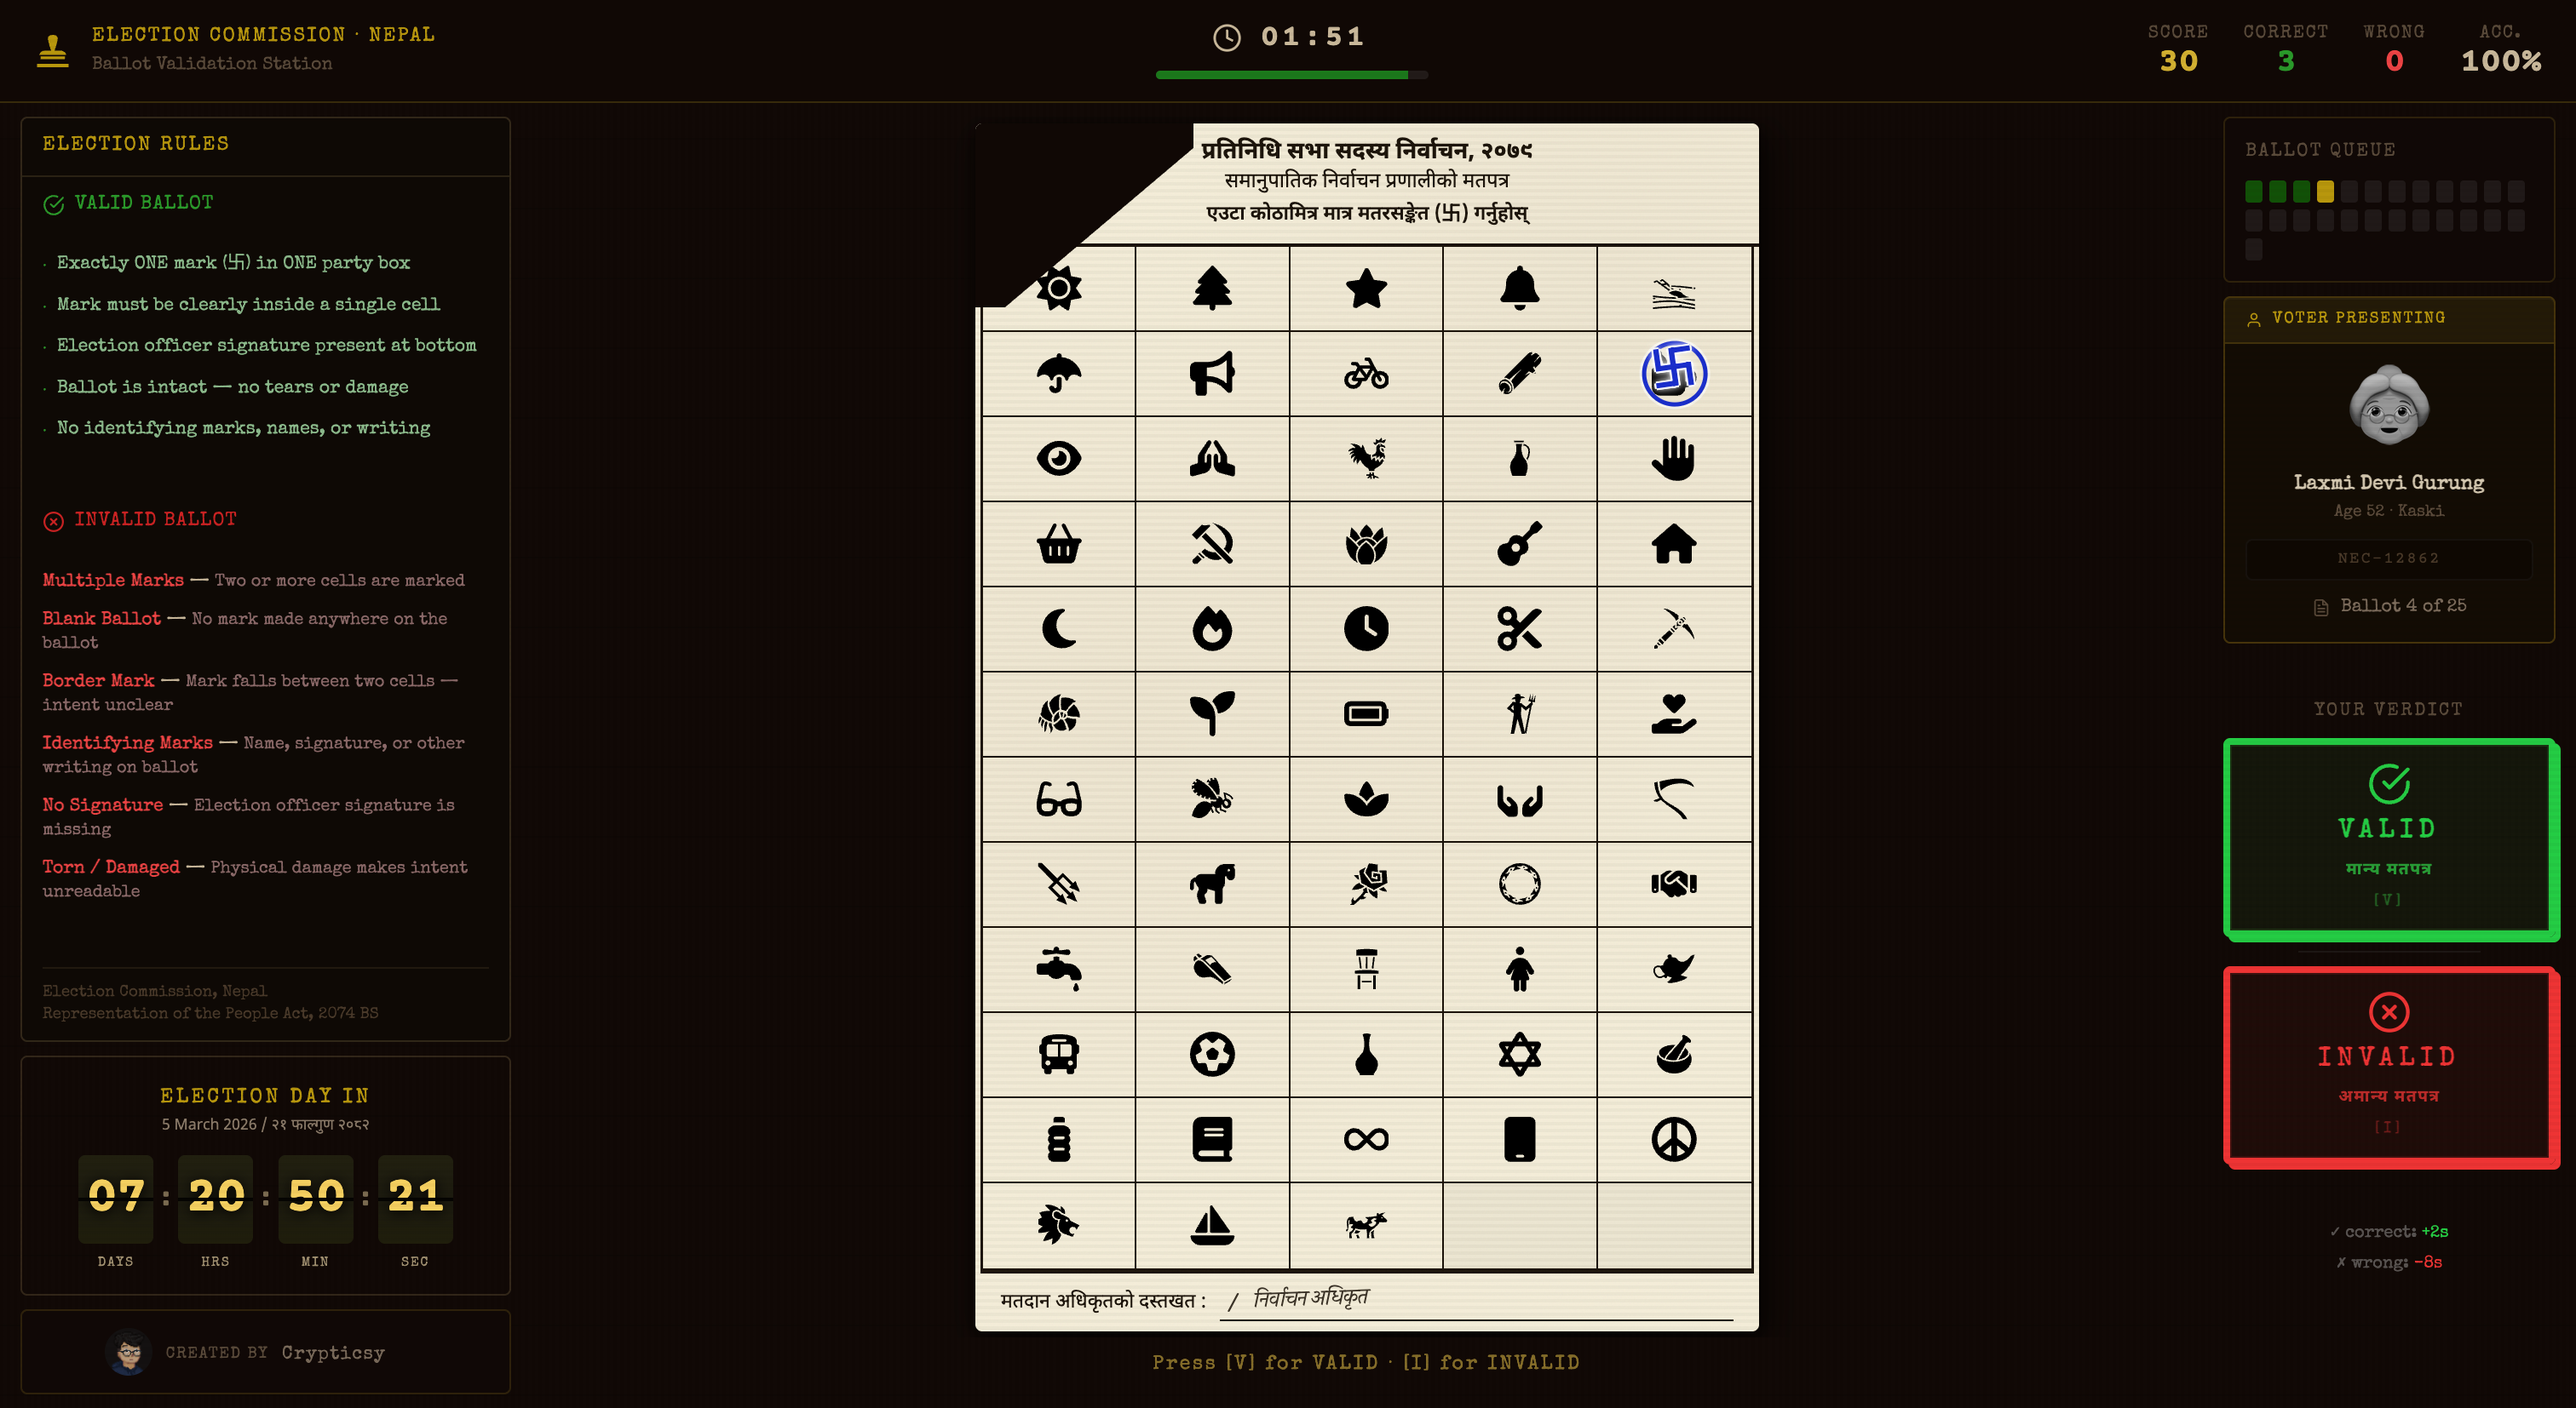
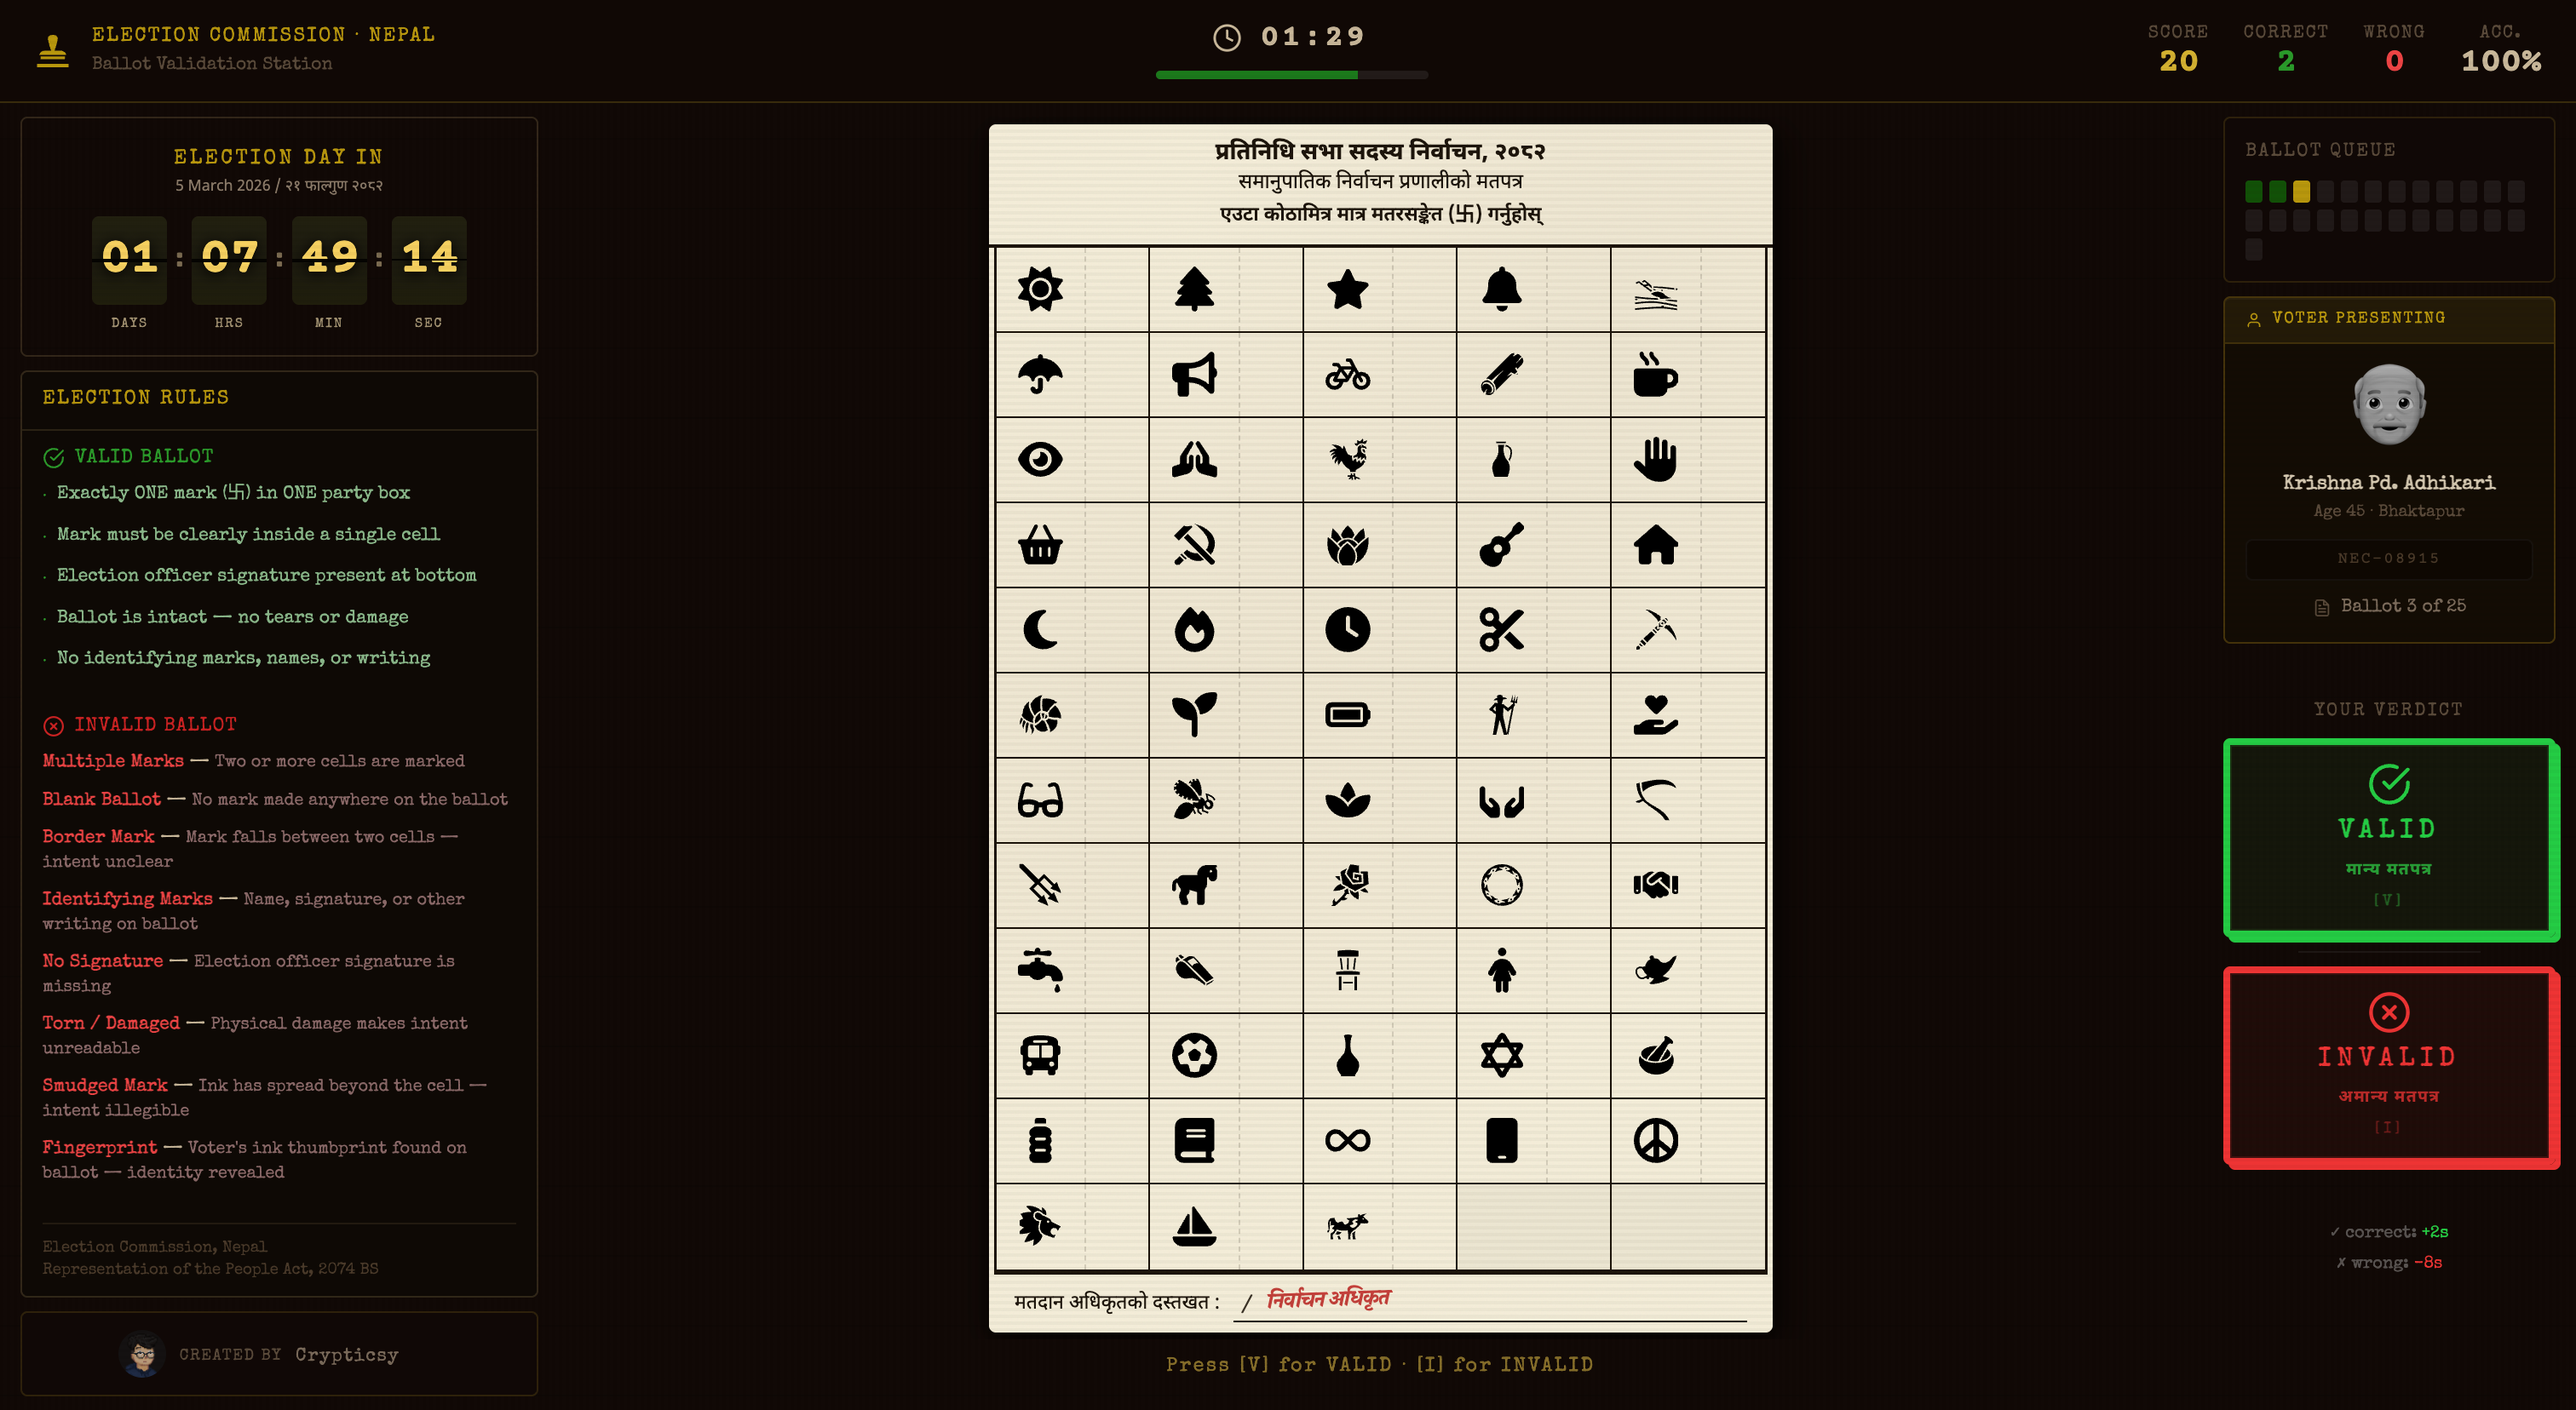
♻  Added ballot box

diff --git a/src/components/BallotDisplay.tsx b/src/components/BallotDisplay.tsx
@@ -27,13 +27,14 @@ export default function BallotDisplay({ ballot, compact = false, containerHeight
     cellH = CELL_H;
   }
 
-  const markMap = new Map<string, { isBorder?: boolean; borderDir?: string; sloppy?: boolean; isSmudged?: boolean }>();
+  const markMap = new Map<string, { isBorder?: boolean; borderDir?: string; sloppy?: boolean; isSmudged?: boolean; isOnSymbol?: boolean }>();
   for (const mark of ballot.marks) {
     markMap.set(`${mark.row}-${mark.col}`, {
       isBorder: mark.isBorder,
       borderDir: mark.borderDir,
       sloppy: ballot.sloppyMark,
       isSmudged: mark.isSmudged,
+      isOnSymbol: mark.isOnSymbol,
     });
   }
 
@@ -128,13 +129,23 @@ export default function BallotDisplay({ ballot, compact = false, containerHeight
                   borderRight: col < COLS - 1 ? '1px solid #1a1208' : 'none',
                   borderBottom: row < ROWS - 1 ? '1px solid #1a1208' : 'none',
                   display: 'flex',
-                  alignItems: 'center',
-                  justifyContent: 'center',
+                  alignItems: 'stretch',
                   overflow: mark?.isBorder ? 'visible' : 'hidden',
                 }}
               >
-                <span className="party-symbol"><PartyIcon /></span>
-                {mark && renderMark(mark.sloppy, mark.borderDir, mark.isBorder, mark.isSmudged)}
+                {/* Border marks are positioned absolute relative to the cell */}
+                {mark?.isBorder && renderMark(mark.sloppy, mark.borderDir, mark.isBorder, mark.isSmudged)}
+
+                {/* Symbol zone — left 58% */}
+                <div style={{ width: '58%', position: 'relative', display: 'flex', justifyContent: 'center', alignItems: 'center' }}>
+                  <span className="party-symbol"><PartyIcon /></span>
+                  {mark && !mark.isBorder && mark.isOnSymbol && renderMark(mark.sloppy, undefined, false, mark.isSmudged)}
+                </div>
+
+                {/* Mark zone — right 42%, subtle divider */}
+                <div style={{ width: '42%', position: 'relative', display: 'flex', justifyContent: 'center', alignItems: 'center', borderLeft: '1px dashed rgba(26,18,8,0.15)' }}>
+                  {mark && !mark.isBorder && !mark.isOnSymbol && renderMark(mark.sloppy, undefined, false, mark.isSmudged)}
+                </div>
               </div>
             );
           })

diff --git a/src/data/ballotGenerator.ts b/src/data/ballotGenerator.ts
@@ -169,6 +169,20 @@ function generateFingerprintBallot(): BallotData {
   };
 }
 
+function generateMarkOnSymbolBallot(): BallotData {
+  const mark = randomCell();
+  return {
+    id: ++ballotCounter,
+    isValid: false,
+    marks: [{ ...mark, markStyle: 'check', isOnSymbol: true }],
+    hasSignature: true,
+    hasTear: false,
+    invalidReason: 'mark_on_symbol',
+    invalidReasonDisplay:
+      'MARK IS PLACED ON THE PARTY SYMBOL — The mark must be made in the designated box, not over the symbol.',
+  };
+}
+
 function generateTornBallot(): BallotData {
   const mark = randomCell();
   const tearPositions = ['top-right', 'bottom-right', 'top-left'] as const;
@@ -199,6 +213,7 @@ const INVALID_GENERATORS: Generator[] = [
   generateTornBallot,
   generateSmudgedMarkBallot,
   generateFingerprintBallot,
+  generateMarkOnSymbolBallot,
 ];
 
 export function generateBallot(): BallotData {
@@ -225,6 +240,7 @@ export function generateBallotQueue(count: number): BallotData[] {
     generateTornBallot,
     generateSmudgedMarkBallot,
     generateFingerprintBallot,
+    generateMarkOnSymbolBallot,
   ];
   for (const gen of guaranteed) {
     ballots.push(gen());

diff --git a/src/index.css b/src/index.css
@@ -231,6 +231,7 @@
     right: 0;
     width: 110px;
     height: 110px;
+    clip-path: polygon(100% 100%, 0 100%, 100% 0);
     z-index: 30;
   }
 
@@ -242,7 +243,7 @@
     width: 120px;
     height: 120px;
     background: #0f0805;
-    clip-path: polygon(100% 100%, 115% -15%, 100% -15%);
+    clip-path: polygon(100% 100%, -15% 100%, 100% -15%);
   }
 
   .torn-corner-tl {
@@ -251,6 +252,7 @@
     left: 0;
     width: 120px;
     height: 100px;
+    clip-path: polygon(0 0, 100% 0, 0 100%);
     z-index: 30;
   }
 

diff --git a/src/types/index.ts b/src/types/index.ts
@@ -8,7 +8,8 @@ export type InvalidReason =
   | 'no_signature'
   | 'torn'
   | 'smudged_mark'
-  | 'fingerprint';
+  | 'fingerprint'
+  | 'mark_on_symbol';
 
 export interface Mark {
   row: number;
@@ -17,6 +18,7 @@ export interface Mark {
   borderDir?: 'right' | 'bottom';
   markStyle?: 'check' | 'cross' | 'dot' | 'scribble';
   isSmudged?: boolean;
+  isOnSymbol?: boolean;
 }
 
 export interface BallotData {

diff --git a/README.md b/README.md
@@ -17,19 +17,6 @@
 
 <br/>
 
-### Invalid Ballot Types
-
-| Type                  | Description                                   |
-| --------------------- | --------------------------------------------- |
-| **Multiple Marks**    | Two or more party symbols are marked          |
-| **Blank Ballot**      | No mark made anywhere on the ballot           |
-| **Border Mark**       | Mark straddles the line between two cells     |
-| **Identifying Marks** | Voter's name, initials, or writing is present |
-| **No Signature**      | Election officer's signature is missing       |
-| **Torn / Damaged**    | Physical damage makes voter intent unclear    |
-| **Smugged Mark**      | Ink is smeared or blurred, making the mark unclear |
-<br/>
-
 ### Prerequisites
 
 - Node.js (v18 or higher)
